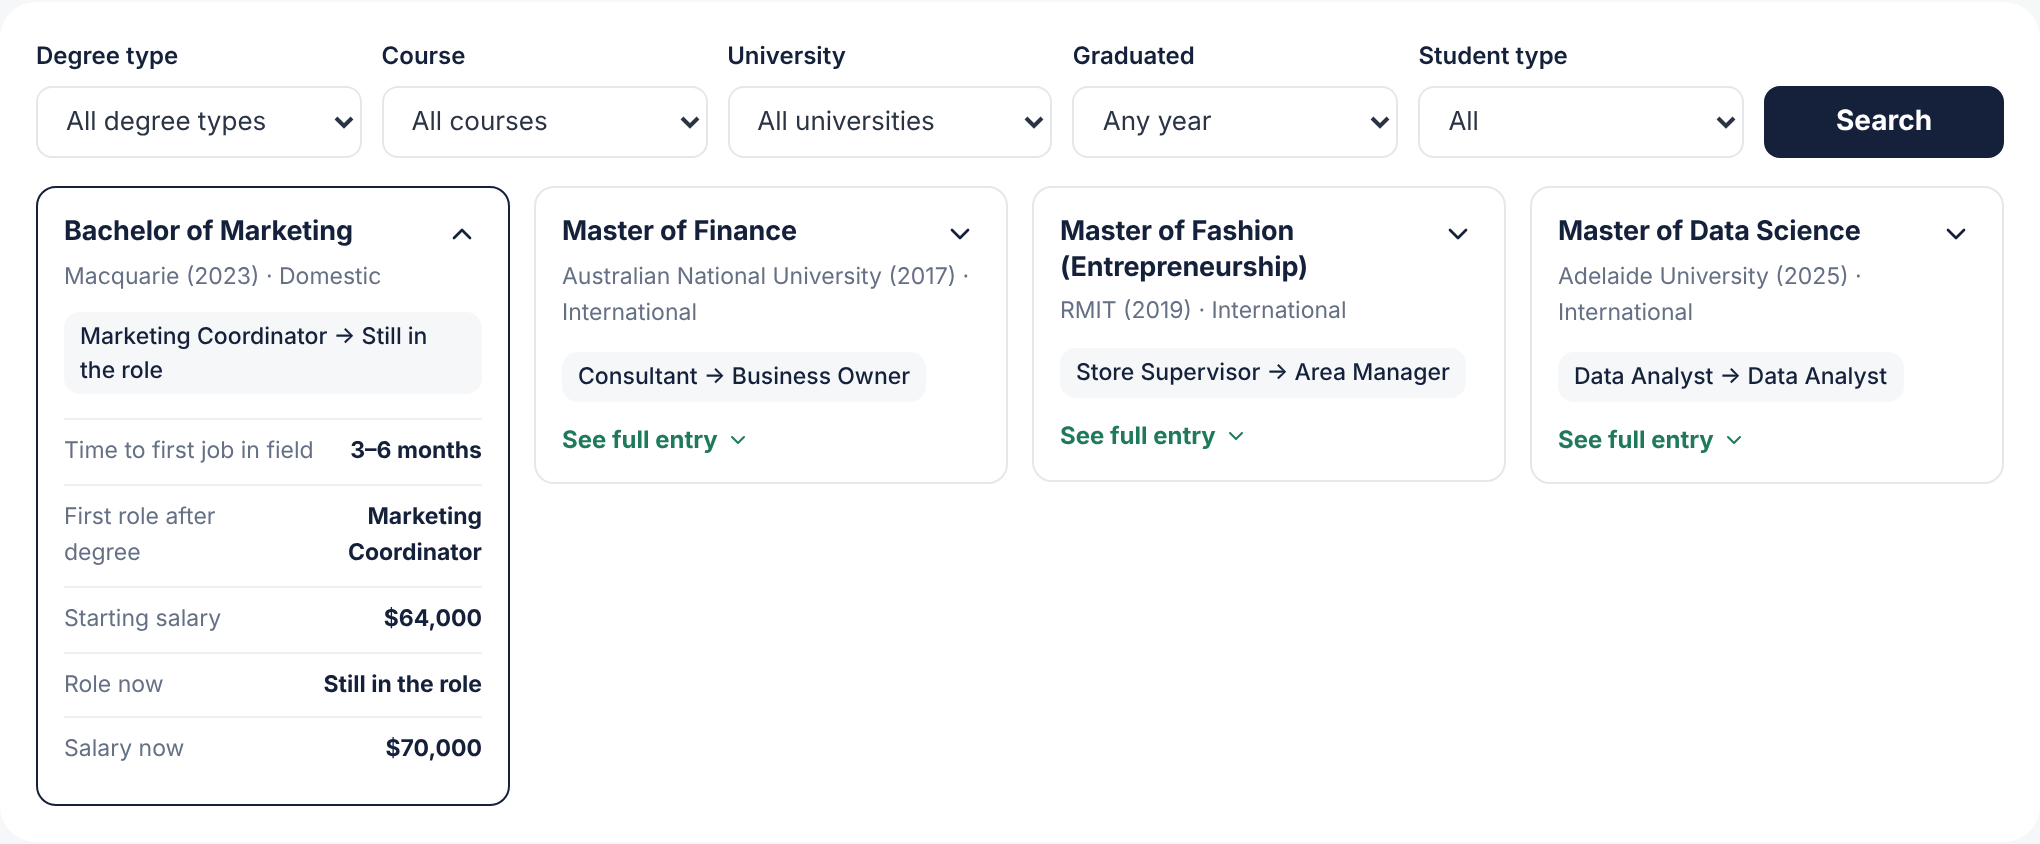
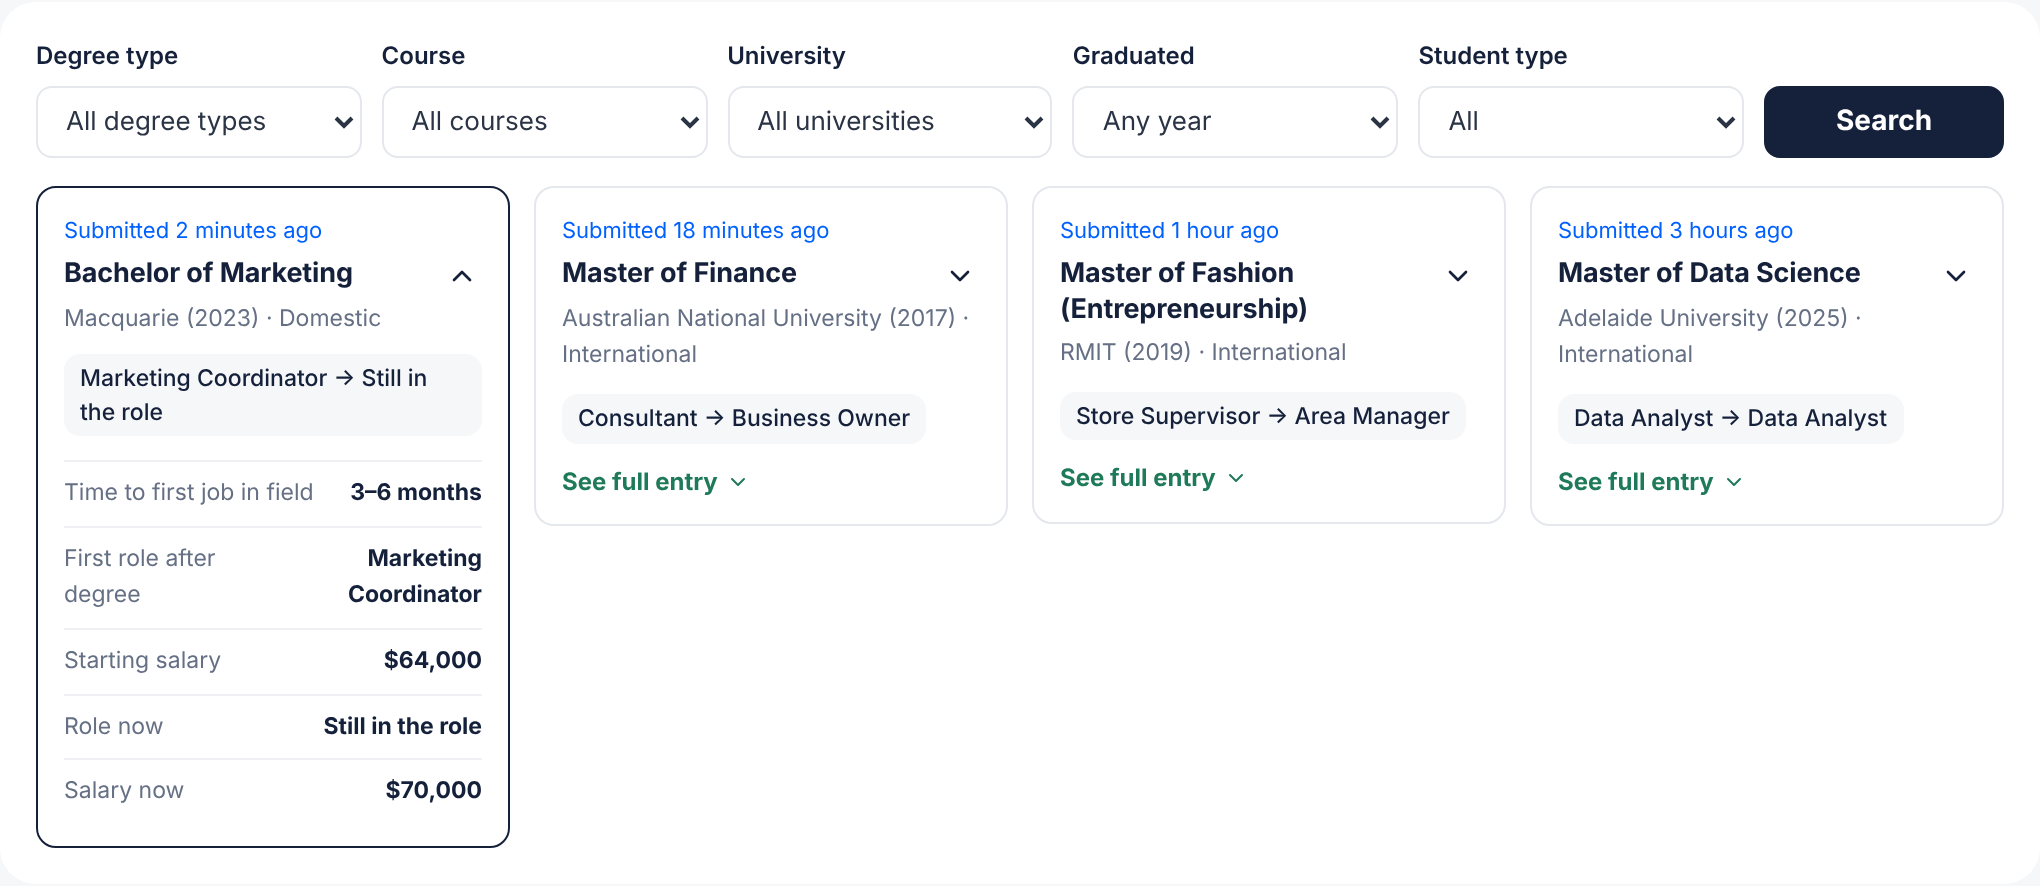
Homepage picture: cards show 'Submitted … ago' like the database
Claude-Session: https://claude.ai/code/session_01AR1h6TWA9BwzJkGtLJdNW7

diff --git a/index.html b/index.html
@@ -46,7 +46,7 @@
                 <span class="sk-card sk-open"></span><span class="sk-card"></span><span class="sk-card"></span><span class="sk-card"></span>
               </div>
             </div>
-            <img src="assets/preview.png?v=0ffced6f" width="1020" height="421" loading="lazy"
+            <img src="assets/preview.png?v=3695b0e5" width="1020" height="442" loading="lazy"
                alt="Preview of the Return on Uni database: filters for degree type, course, university, graduation year and student type, above graduate cards showing each person's first role, starting salary, current role and current salary.">
           </div>
         </div>

diff --git a/tools/preview-shot.py b/tools/preview-shot.py
@@ -12,15 +12,19 @@ them from  <SHEETS_API_URL>?action=entries  (the "entries" array), e.g.
       "university": "UNSW Sydney", "graduation_year": 2021, "student_type": "Domestic",
       "time_to_first_job": "Under 3 months", "first_role": "Graduate Nurse",
       "starting_salary": 72000, "current_role": "Registered Nurse", "current_salary": 88000}]
-The first 4 are shown, the first one opened up. Run node tools/release.mjs afterwards.
+The first 4 are shown, the first one opened up, each with a fresh-looking
+"Submitted … ago" label (see AGO_MINUTES). Run node tools/release.mjs afterwards.
 """
-import asyncio, functools, http.server, json, pathlib, re, sys, threading
+import asyncio, time, functools, http.server, json, pathlib, re, sys, threading
 from playwright.async_api import async_playwright
 
 ROOT = pathlib.Path(__file__).resolve().parent.parent
 OUT = ROOT / "assets" / "preview.png"
 FAKE_API = "https://preview.invalid/exec"
 CARDS = 4
+# The picture is frozen, so its "Submitted … ago" labels are too. Entries without a
+# "submitted" time (ms) get these, in minutes before now: 2 min, 18 min, 1 hour, 3 hours.
+AGO_MINUTES = [2, 18, 60, 180]
 
 
 def serve():
@@ -34,6 +38,9 @@ def serve():
 
 
 async def main(entries):
+    now = int(time.time() * 1000)
+    entries = [dict(e, submitted=e.get("submitted") or now - AGO_MINUTES[i % len(AGO_MINUTES)] * 60_000)
+               for i, e in enumerate(entries[:CARDS])]
     srv = serve()
     base = f"http://127.0.0.1:{srv.server_port}/"
     async with async_playwright() as p:
@@ -53,7 +60,7 @@ async def main(entries):
             localStorage.setItem('rou_unlocked', 'true'); localStorage.setItem('rou_notice_ok', '1'); } catch (e) {}""")
         await page.goto(base + "database.html")
         await page.wait_for_selector("#entries .entry")
-        await page.add_style_tag(content="#status, #more, .entry-age { display: none !important; } .db-panel { border: 0 !important; box-shadow: none !important; }")
+        await page.add_style_tag(content="#status, #more { display: none !important; } .db-panel { border: 0 !important; box-shadow: none !important; }")
         first = page.locator("#entries .entry").first
         await first.locator(".entry-toggle").click()
         await page.wait_for_timeout(300)
